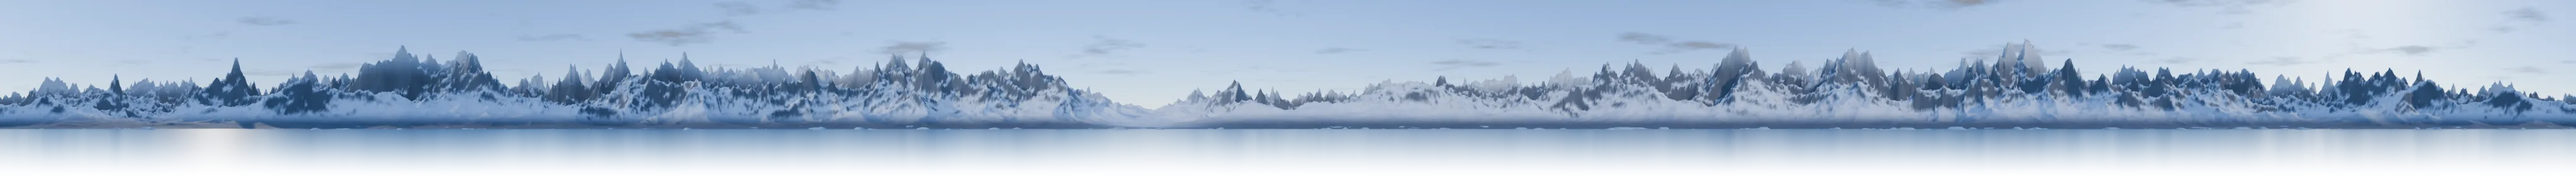
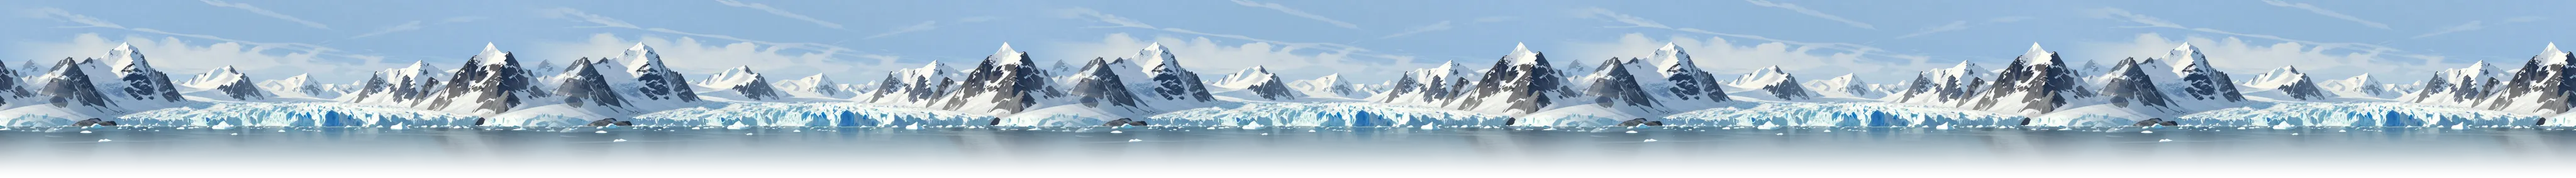
Bahía glaciar pintada con el estilo de los héroes (0.106.1) (#125)
* Fiordo pintado con el estilo de los héroes, con suelo y agua pintados en 3D (0.98.0)

Claude-Session: https://claude.ai/code/session_01YU6HPKNqDAini2Aa6w3kXk

* Laguna tropical pintada con el estilo de los héroes, con arena y agua pintadas en 3D (0.100.0)

Claude-Session: https://claude.ai/code/session_01YU6HPKNqDAini2Aa6w3kXk

* Prueba de temporizador frenado: esperar a que la sesión de los 20 s esté guardada

La escritura de la sesión en curso es asíncrona; con el CI cargado, la de los 20 s llegaba
después de leerla y la prueba comparaba contra la copia de los 10 s.

Claude-Session: https://claude.ai/code/session_01YU6HPKNqDAini2Aa6w3kXk

* Vista aérea 2D con más paisaje: orillas anchas en vertical, agua pintada del fiordo (0.100.1)

Claude-Session: https://claude.ai/code/session_01YU6HPKNqDAini2Aa6w3kXk

* Vista previa de paisajes y piezas del bote en la tienda

Claude-Session: https://claude.ai/code/session_01YU6HPKNqDAini2Aa6w3kXk

* Icono de vista previa sin fondo

Claude-Session: https://claude.ai/code/session_01YU6HPKNqDAini2Aa6w3kXk

* Vista previa en un módulo que se carga al tocarla: la primera carga vuelve a quedar bajo 380 KB de JS

Claude-Session: https://claude.ai/code/session_01YU6HPKNqDAini2Aa6w3kXk

* Cañón del desierto pintado con el estilo de los héroes, con tierra roja y agua pintadas

Claude-Session: https://claude.ai/code/session_01YU6HPKNqDAini2Aa6w3kXk

* Herramientas: procesar.py (clave magenta por croma) y puntos del cañón
[…]

diff --git a/src/carrera.js b/src/carrera.js
@@ -230,6 +230,7 @@ Object.assign(PAISAJES, {
     nombre: 'Bahía glaciar',
     texto: 'Cumbres nevadas, témpanos a la deriva, iglús y pingüinos.',
     precio: 2100,
+    pintado: true,
     orilla: {
       piezas: {
         tempano_alto: { x: 0, y: 0, w: 470, h: 694, pie: [0.5, 0.969], m: 10.83 },

diff --git a/src/version.js b/src/version.js
@@ -1,2 +1,2 @@
 // Versión de la app: la misma que la caché del service worker (sw.js). Súbela al publicar cambios.
-export const VERSION = '0.106.0';
+export const VERSION = '0.106.1';

diff --git a/tools/paisaje-pintado/procesar.py b/tools/paisaje-pintado/procesar.py
@@ -111,7 +111,7 @@ def sin_costura(im):
 sin_costura(Image.open(G+f'{k}_suelo.png').convert('RGB')).resize((256,256),Image.LANCZOS).save(O+f'{k}_suelo.webp',quality=78)
 CAJA_AGUA={'canon':(120,70,512,430)}.get(k,(0,200,512,512))
 a=Image.open(G+f'{k}_agua.png').convert('RGB').crop(CAJA_AGUA).resize((512,512))
-ag=np.asarray(sin_costura(a)).astype(np.float32); cf={'canon':2.2,'otono':2.4}.get(k,1.0)
+ag=np.asarray(sin_costura(a)).astype(np.float32); cf={'canon':2.2,'otono':2.4,'glaciar':2.2}.get(k,1.0)
 ag=(ag-ag.reshape(-1,3).mean(0))*cf+ag.reshape(-1,3).mean(0)
 Image.fromarray(ag.clip(0,255).astype(np.uint8)).resize((256,256),Image.LANCZOS).save(O+f'{k}_agua3d.webp',quality=78)
 for f in sorted(os.listdir(O)): print(f, os.path.getsize(O+f))

diff --git a/CHANGELOG.md b/CHANGELOG.md
@@ -2,6 +2,14 @@
 
 Lo que cambia en cada versión de Rower. La versión de la app vive en `src/version.js`; esta lista empieza siempre por esa versión (lo comprueba `pruebas/version.test.mjs`).
 
+## 0.106.1 · 2026-11-23
+
+La Bahía glaciar, repintada con el estilo de los héroes.
+
+- **Glaciar pintado.** Cumbres nevadas y frente de glaciar sobre agua oscura; témpanos, abetos nevados, bloques de hielo, iglú, rocas nevadas y pingüinos pintados con el mismo motor y la misma mano que los retratos.
+- **Nieve y agua oscura pintadas en la vista 3D**, con bruma lejana; también hay agua pintada en el canal de la vista 2D y una costa 2D con témpanos, iglú y bosque.
+- Miniatura nueva en la tienda.
+
 ## 0.106.0 · 2026-11-23
 
 La app abre con menos peso.
